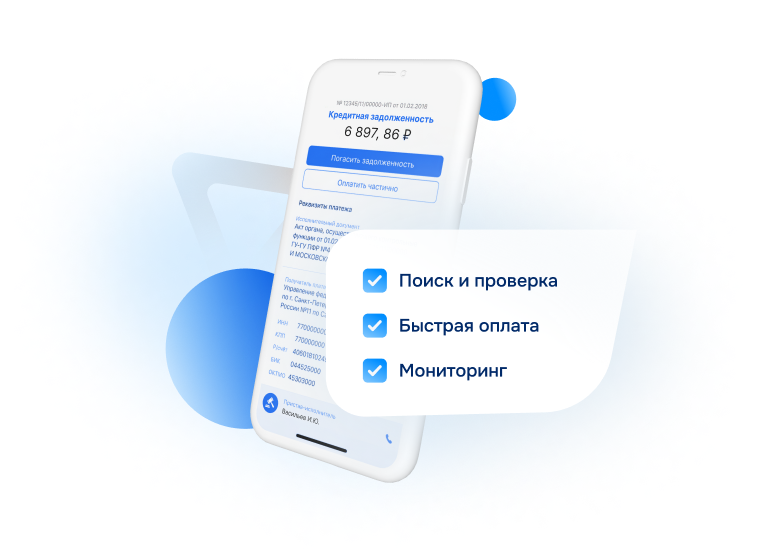
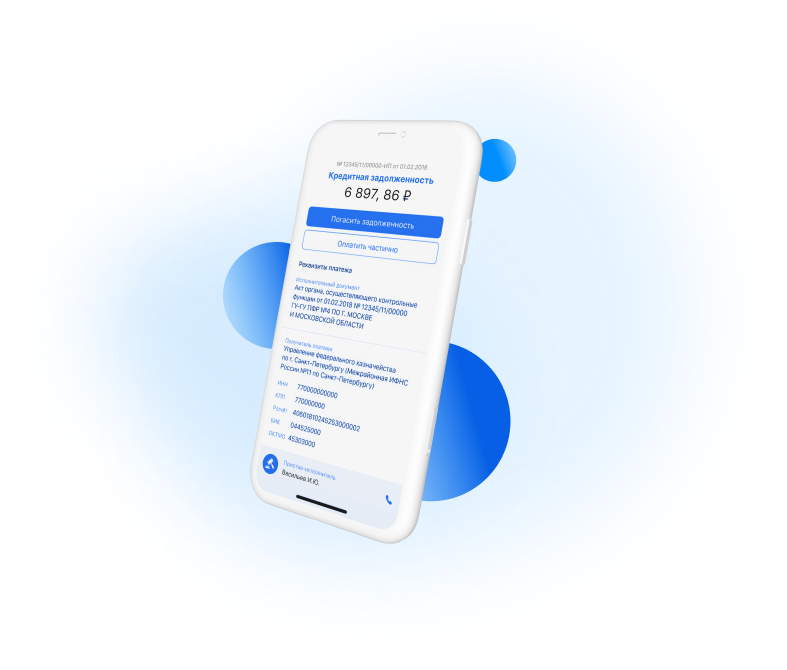
mobile adaptive is rdy

Changed region(s): [[0.2124, 0.1223, 0.7282, 0.8561], [0.4551, 0.0917, 0.6069, 0.1223], [0.4855, 0.8255, 0.5462, 0.8867]]

diff --git a/src/components/services-list/services-list.scss b/src/components/services-list/services-list.scss
@@ -12,17 +12,17 @@
   row-gap: 10px;
   @media (min-width: $M) {
     padding: 34px 50px 34px;
-    grid-template-columns: auto 1fr 220px;
+    grid-template-columns: auto 1fr;
     grid-template-areas:
-      "logo titles titles"
-      "logo text button";
+      "logo titles "
+      "logo text ";
     column-gap: 10px;
     row-gap: 15px;
   }
   @media (min-width: $L) {
     grid-template-areas:
-      "logo titles button"
-      "logo text button";
+      "logo titles"
+      "logo text";
   }
   .card-service__logo {
     width: 40px;
@@ -32,9 +32,14 @@
     img {
       width: 100%;
     }
-    @media (min-width: $L) {
+    @media (min-width: $M) {
       width: 80px;
       height: 80px;
+      margin-right: 35px;
+    }
+    @media (min-width: $L) {
+      width: 100px;
+      height: 100px;
       margin-right: 35px;
     }
   }
@@ -66,12 +71,11 @@
       padding: 22px;
     }
     &:hover {
-      background:
-        linear-gradient(
-          165.71deg,
-          $color-secondary 20.77%,
-          rgba(0, 142, 255, 0) 116.88%
-        );
+      background: linear-gradient(
+        165.71deg,
+        $color-secondary 20.77%,
+        rgba(0, 142, 255, 0) 116.88%
+      );
     }
     &:active {
       background: $color-secondary;
@@ -112,7 +116,6 @@
     }
   }
   p {
-    max-width: 670px;
     margin: 0;
     line-height: 19px;
     grid-area: text;

diff --git a/src/components/debt-info/debt-info.scss b/src/components/debt-info/debt-info.scss
@@ -1,8 +1,8 @@
 .debt-info {
-  padding: 15px 0 30px;
+  padding: 20px 0 40px;
   background-color: #fff;
   @media (min-width: $XL) {
-    padding: 110px 0 100px;
+    padding: 60px 0;
   }
 }
 
@@ -30,7 +30,6 @@
 }
 
 .debt-info__article {
-  margin-bottom: 40px;
   @media (min-width: $L) {
     grid-column: 3/-1;
   }
@@ -41,7 +40,7 @@
 
 .debt-info__article-title {
   margin-bottom: 13px;
-  @media (min-width: $L) {
+  @media (min-width: $M) {
     margin-bottom: 23px;
   }
 }
@@ -56,14 +55,14 @@
 
 .debt-info__debt-check {
   grid-column: 1/-1;
+  margin-bottom: 60px;
 }
 
 .debt-check {
   width: 100%;
   padding: 22px;
   border-radius: 14px;
-  background:
-    $color-secondary url("../img/debt-check-bg/mobile-bg.svg") center /
+  background: $color-secondary url("../img/debt-check-bg/mobile-bg.svg") center /
     cover no-repeat;
   box-shadow: 0 26px 28px -2px #00294917;
   color: $color-bg;

diff --git a/src/components/hero/hero.scss b/src/components/hero/hero.scss
@@ -1,12 +1,16 @@
 .hero {
-  padding: 10px 0 20x;
+  padding: 5px 0 20px;
   @media (min-width: $M) {
-    padding: 45px 0 55px;
+    padding: 25px 0 30px;
+  }
+  @media (min-width: $L) {
+    padding-bottom: 0;
   }
 }
 
 .hero__container {
   display: flex;
+  position: relative;
 }
 
 .hero__content {
@@ -14,13 +18,15 @@
 }
 
 .hero__title {
-  margin-bottom: 15px;
+  margin-bottom: 11px;
+  max-width: 220px;
   font-size: 18px;
   font-weight: 700;
   line-height: 22px;
   color: $color-dark-blue;
   @media (min-width: $M) {
-    margin-bottom: 35px;
+    max-width: 550px;
+    margin-bottom: 25px;
     font-size: 24px;
     line-height: 32px;
   }
@@ -38,6 +44,9 @@
   display: none;
   @media (min-width: $L) {
     display: block;
-    flex: 1 0 620px;
+    position: absolute;
+    top: 0;
+    right: 0;
+    margin-top: -150px;
   }
 }

diff --git a/src/components/footer/footer.scss b/src/components/footer/footer.scss
@@ -1,13 +1,13 @@
 .footer {
-  padding: 115px 0 30px;
+  padding: 40px 0 30px;
   background-color: $color-dark-blue;
   text-align: center;
-  color: rgba($color-bg, $alpha: 0.7);
+  color: rgba($color-text-secondary, $alpha: 0.5);
   @media (min-width: $M) {
     text-align-last: left;
   }
   @media (min-width: $XL) {
-    padding: 170px 0 30px;
+    padding: 50px 0 30px;
   }
 }
 
@@ -15,7 +15,7 @@
   display: inline-block;
   margin-bottom: 25px;
   @media (min-width: $L) {
-    margin-bottom: 10px;
+    margin-bottom: 0;
   }
 }
 
@@ -85,7 +85,7 @@
 
 .footer__contacts {
   display: grid;
-  row-gap: 17px;
+  row-gap: 15px;
   font-size: 10px;
   line-height: 16px;
   @media (min-width: $M) {

diff --git a/src/common/scss/variables.scss b/src/common/scss/variables.scss
@@ -11,11 +11,10 @@ $color-bg: #f9fdff;
 $color-black: #161b23;
 $color-dark-grey: #424950;
 $color-dark-blue: #012b69;
-$color-orange:#ff6b00;
-$color-primary-blue:#065fe5;
-$color-secondary:#008eff;
-
-
+$color-orange: #ff6b00;
+$color-primary-blue: #065fe5;
+$color-secondary: #008eff;
+$color-text-secondary: #f9fdff;
 
 // Fonts
 $font-family-base: "Onest", "Helvetica", "Arial", sans-serif;

diff --git a/src/components/warnings-list/warnings-list.scss b/src/components/warnings-list/warnings-list.scss
@@ -3,13 +3,15 @@
   grid-template-columns: 1fr 1fr;
   margin: 0;
   padding: 0;
-  gap: 25px 10px;
+  gap: 25px 0;
   list-style: none;
   @media (min-width: $L) {
     row-gap: 40px;
     column-gap: 10px;
   }
   img {
+    width: 20px;
+    height: 20px;
     margin-bottom: 12px;
     @media (min-width: $M) {
       width: 24px;

diff --git a/src/components/services/services.scss b/src/components/services/services.scss
@@ -1,13 +1,13 @@
 .services {
-  padding: 20px 0 40px;
+  padding: 20px 0;
   @media (min-width: $L) {
-    padding: 60px 0 120px;
+    padding: 60px 0;
   }
 }
 
 .services__title {
   max-width: 600px;
-  margin: 0 auto 13px;
+  margin-bottom: 15px;
   @media (min-width: $L) {
     margin-bottom: 20px;
   }

diff --git a/src/index.scss b/src/index.scss
@@ -18,7 +18,6 @@
 @import "components/warnings-list/warnings-list";
 @import "components/services/services";
 @import "components/services-list/services-list";
-@import "components/feedback/feedback";
 @import "components/footer/footer";
 
 // Pages
